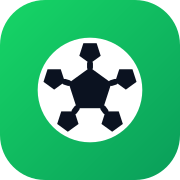
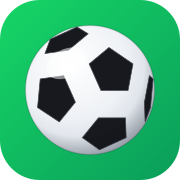
fix(brand): realistic Telstar soccer-ball mark (proper sphere, not a flat badge)
The previous ball read as a flat scatter of pentagons. Replace it with a real
orthographic projection of a truncated icosahedron (classic black-pentagon
Telstar topology), shaded with a radial body gradient + rim shadow + specular
highlight so it reads as an actual 3D sphere. Geometry is generated/original,
not a clone of adidas's trademarked 2026 "Trionda" design.

Updates the BallMark component (header/login/dashboard) and regenerates
icon.svg, apple-icon.png (180) and favicon.ico (16/32/48) from the same art.

diff --git a/src/components/shared/brand.tsx b/src/components/shared/brand.tsx
@@ -7,39 +7,43 @@ import * as React from 'react';
 // Gradient ids are scoped per-instance with useId so multiple marks on one page
 // never collide.
 
-// Realistic shaded soccer ball — the app's logo mark. Reads cleanly down to
-// ~18px (header) yet keeps the classic truncated-icosahedron pattern and a
-// soft 3D sphere shade. Transparent background so it sits on any surface.
+// Realistic shaded soccer ball — the app's logo mark. The pentagon layout is a
+// real orthographic projection of a truncated-icosahedron (classic Telstar
+// topology), with a radial sphere shade + specular highlight so it reads as an
+// actual 3D ball, not a flat badge. Original geometry (no trademarked design).
+// Transparent background so it sits on any surface.
 export function BallMark({ className }: { className?: string }) {
   const id = React.useId();
+  const PENTS = [
+    'M88.79 58.67 L89.26 72.72 L93.07 62.51 L94.95 42.14 L92.31 39.77 Z',
+    'M34.56 21.64 L48.65 9.96 L40.72 5.11 L21.72 13.80 L17.92 24.01 Z',
+    'M55.99 69.87 L44.54 83.93 L56.75 92.61 L75.74 83.93 L75.27 69.87 Z',
+    'M39.58 58.67 L31.18 39.77 L14.54 42.14 L12.65 62.51 L28.13 72.72 Z',
+    'M57.80 50.34 L77.08 50.34 L80.60 31.43 L63.50 19.75 L49.40 31.43 Z',
+  ];
   return (
-    <svg viewBox="0 0 32 32" className={className} role="img" aria-hidden="true">
+    <svg viewBox="0 0 100 100" className={className} role="img" aria-hidden="true">
       <defs>
-        <radialGradient id={`${id}-s`} cx="36%" cy="30%" r="75%">
+        <radialGradient id={`${id}-body`} cx="36%" cy="30%" r="78%">
           <stop offset="0" stopColor="#ffffff" />
-          <stop offset="0.65" stopColor="#eef1f5" />
-          <stop offset="1" stopColor="#c4ccd6" />
+          <stop offset="0.55" stopColor="#eef1f5" />
+          <stop offset="1" stopColor="#cbd3dd" />
         </radialGradient>
+        <radialGradient id={`${id}-shade`} cx="40%" cy="34%" r="72%">
+          <stop offset="0" stopColor="#000000" stopOpacity="0" />
+          <stop offset="0.72" stopColor="#000000" stopOpacity="0" />
+          <stop offset="1" stopColor="#0b1220" stopOpacity="0.34" />
+        </radialGradient>
+        <clipPath id={`${id}-clip`}><circle cx="50" cy="50" r="46" /></clipPath>
       </defs>
-      <g transform="translate(16 16)">
-        <circle r="9.3" fill={`url(#${id}-s)`} />
-        <path d="M0.00 -4.00 L3.80 -1.24 L2.35 3.24 L-2.35 3.24 L-3.80 -1.24 Z" fill="#0b1220" />
-        <path d="M0.00 -4.70 L-1.90 -6.08 L-1.18 -8.32 L1.18 -8.32 L1.90 -6.08 Z" fill="#0b1220" />
-        <path d="M4.47 -1.45 L5.20 -3.69 L7.55 -3.69 L8.27 -1.45 L6.37 -0.07 Z" fill="#0b1220" />
-        <path d="M2.76 3.80 L5.11 3.80 L5.84 6.04 L3.94 7.42 L2.04 6.04 Z" fill="#0b1220" />
-        <path d="M-2.76 3.80 L-2.04 6.04 L-3.94 7.42 L-5.84 6.04 L-5.11 3.80 Z" fill="#0b1220" />
-        <path d="M-4.47 -1.45 L-6.37 -0.07 L-8.27 -1.45 L-7.55 -3.69 L-5.20 -3.69 Z" fill="#0b1220" />
-        <g stroke="#0b1220" strokeWidth="1.05" strokeLinecap="round">
-          <line x1="0.00" y1="-4.00" x2="0.00" y2="-4.70" />
-          <line x1="3.80" y1="-1.24" x2="4.47" y2="-1.45" />
-          <line x1="2.35" y1="3.24" x2="2.76" y2="3.80" />
-          <line x1="-2.35" y1="3.24" x2="-2.76" y2="3.80" />
-          <line x1="-3.80" y1="-1.24" x2="-4.47" y2="-1.45" />
-        </g>
-        {/* rim + top highlight for the sphere read */}
-        <circle r="9.3" fill="none" stroke="#0b1220" strokeOpacity="0.12" strokeWidth="0.6" />
-        <ellipse cx="-3" cy="-3.6" rx="3.2" ry="2" fill="#ffffff" opacity="0.5" />
+      <circle cx="50" cy="50" r="46" fill={`url(#${id}-body)`} />
+      <g clipPath={`url(#${id}-clip)`}>
+        {PENTS.map((d, i) => <path key={i} d={d} fill="#17191e" />)}
+        {PENTS.map((d, i) => <path key={`s${i}`} d={d} fill="none" stroke="#41444b" strokeWidth="0.5" />)}
       </g>
+      <circle cx="50" cy="50" r="46" fill={`url(#${id}-shade)`} />
+      <ellipse cx="33" cy="31" rx="15" ry="10" fill="#ffffff" opacity="0.5" transform="rotate(-28 33 31)" />
+      <circle cx="50" cy="50" r="46" fill="none" stroke="#0b1220" strokeOpacity="0.18" strokeWidth="1" />
     </svg>
   );
 }
